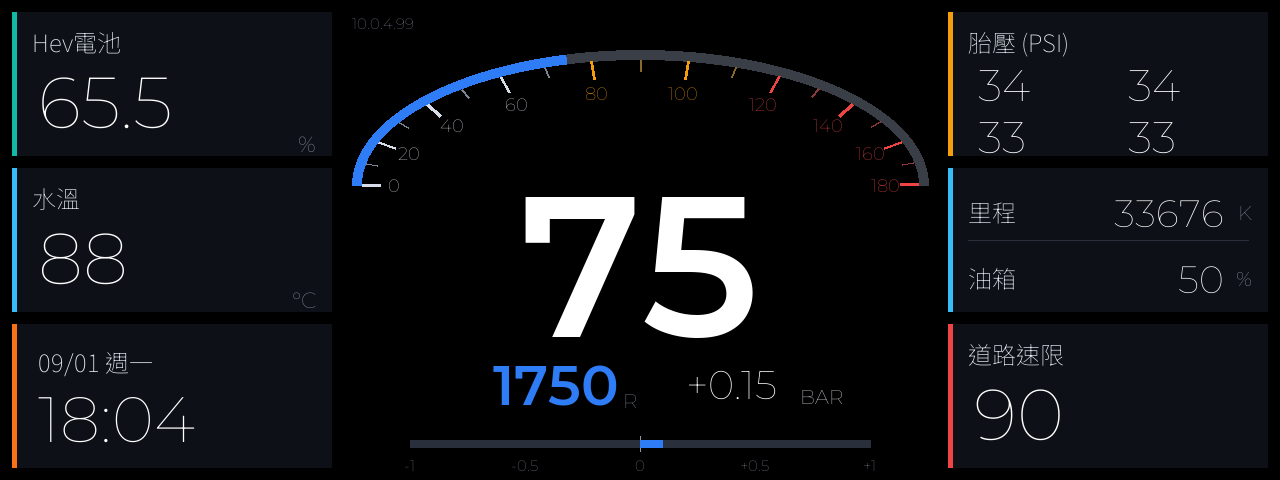
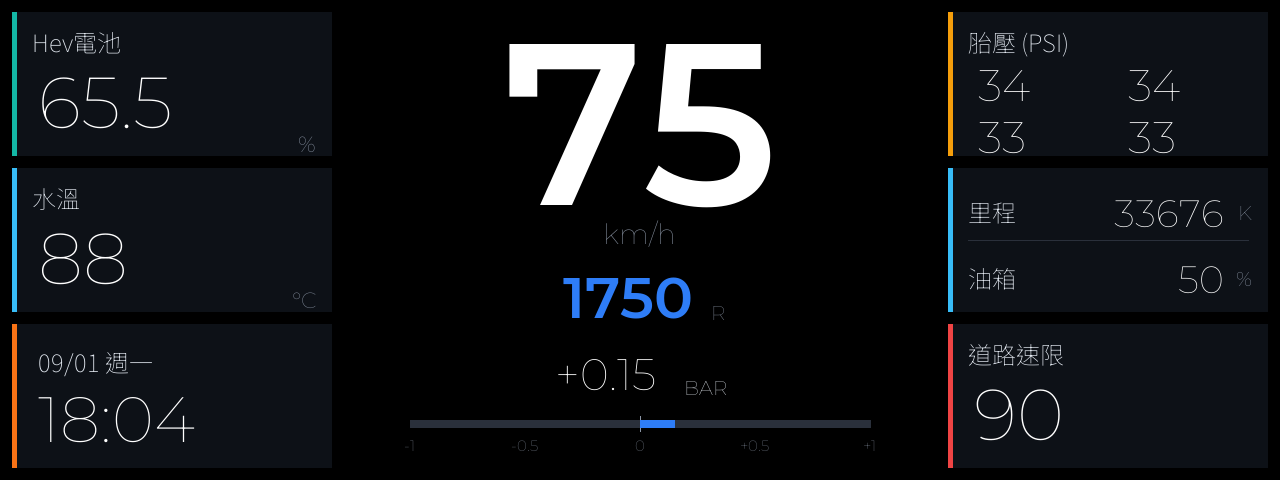
feat: DWIN 版面改為中央垂直堆疊，移除弧形錶盤
圓形錶盤與半橢圓拱形都試過，兩種都與兩側方正的卡片不協調：圓形被
480 的高度卡死且左右留大片黑邊；拱形的弧線語彙與卡片衝突，時速數字
放拱內會頂到刻度、放拱外又擠壓下方元素。

改為單純的垂直堆疊（時速 → 轉速 → 增壓），並加回 km/h 單位。
移除弧線與刻度後時速數字可放到 230px（圓形版 120px、拱形版 200px），
版面語彙也與兩側卡片一致。

代價是失去「目前速度佔上限多少」的視覺指示，只剩數字。README 已記錄
此取捨與可能的補救方式（改用水平進度條）。

產生器一併重寫：先前是連續補丁式修改已顯零亂，改為一次寫清楚，
版面常數集中於檔案上方，供將來產生 14.BIN 時共用同一組座標。

diff --git a/esp32_display/dwin_dashboard/tools/gen_background.py b/esp32_display/dwin_dashboard/tools/gen_background.py
@@ -2,16 +2,17 @@
 """
 DWIN DMG12480C068 (1280x480) 儀表背景圖產生器。
 
-DGUS 的背景圖是靜態的：所有「不會變的東西」都畫進這張圖，
-只有數值由 MCU 透過 UART 寫入 VP 後由螢幕疊上去。
+DGUS 的畫面分兩層：
+  背景圖（靜態）— 卡片框、色條、中文標籤、單位。打包成 .ICL 下載到螢幕。
+  變數控制項（動態）— 數值由 MCU 寫 VP，螢幕自己疊上去，定義在 14.BIN。
 
-因此本檔輸出兩張圖：
-  background.png  — 只有靜態元素，這張才是要轉成 .ICL 下載到螢幕的
-  preview.png     — 背景加上範例數值，用來評估版面（不會下載到螢幕）
+因此輸出兩張圖：
+  background.png  只有靜態元素，這張才是要轉 ICL 的
+  preview.png     背景加上範例數值，僅供評估版面
 
-用程式產生而非手拉，是為了讓美術素材也能進版控、能 diff。
+用程式產生而非手拉，是為了讓美術素材也能進版控、能 diff、能重現。
 """
-import os, math, sys
+import os, sys
 from PIL import Image, ImageDraw, ImageFont
 
 W, H = 1280, 480
@@ -19,46 +20,39 @@ OUT = os.path.join(os.path.dirname(__file__), "..", "assets")
 FONTS = sys.argv[1] if len(sys.argv) > 1 else "fonts"
 
 # ── 配色（沿用 LVGL 版）────────────────────────────────────────────────
-BG        = (0x00, 0x00, 0x00)
-CARD      = (0x0D, 0x11, 0x17)
-TEXT      = (0xFF, 0xFF, 0xFF)
-LABEL     = (0xE2, 0xE8, 0xF0)
-UNIT      = (0x8B, 0x95, 0xA5)
-TRACK     = (0x3A, 0x3F, 0x47)
-BLUE      = (0x2E, 0x7D, 0xF7)
-TEAL      = (0x14, 0xB8, 0xA6)
-CYAN      = (0x38, 0xBD, 0xF8)
-ORANGE    = (0xF5, 0x9E, 0x0B)
-RED       = (0xEF, 0x44, 0x44)
-AMBER     = (0xF9, 0x73, 0x16)
-ALERT     = (0xFF, 0x2D, 0x2D)
-DIVIDER   = (0x2A, 0x30, 0x3B)
+BG      = (0x00, 0x00, 0x00)
+CARD    = (0x0D, 0x11, 0x17)
+TEXT    = (0xFF, 0xFF, 0xFF)
+LABEL   = (0xE2, 0xE8, 0xF0)
+UNIT    = (0x8B, 0x95, 0xA5)
+BLUE    = (0x2E, 0x7D, 0xF7)
+TEAL    = (0x14, 0xB8, 0xA6)
+CYAN    = (0x38, 0xBD, 0xF8)
+ORANGE  = (0xF5, 0x9E, 0x0B)
+RED     = (0xEF, 0x44, 0x44)
+AMBER   = (0xF9, 0x73, 0x16)
+DIVIDER = (0x2A, 0x30, 0x3B)
+BAR_BG  = (0x2A, 0x30, 0x3B)
 
-# ── 版面 ────────────────────────────────────────────────────────────────
+# ── 左右卡片欄 ─────────────────────────────────────────────────────────
 PAD      = 12
 COL_W    = 320
 LEFT_X   = PAD
-RIGHT_X  = W - PAD - COL_W          # 978
+RIGHT_X  = W - PAD - COL_W
 ROW_H    = 144
 ROW_GAP  = 12
 ROW_Y    = [PAD, PAD + ROW_H + ROW_GAP, PAD + 2 * (ROW_H + ROW_GAP)]
 ACCENT_W = 5
 
-# 時速拱：上半橢圓（180°~360°）。橢圓比正圓更貼合 8:3 的長條螢幕，
-# 而且拱下方整塊空間可以讓給時速大字。
-GAUGE_CX, GAUGE_CY = 640, 185       # 橢圓中心（也是兩端點的高度）
-GAUGE_A, GAUGE_B   = 288, 135       # 水平/垂直半軸
-ARC_W              = 10             # 軌道線寬
-TICK_LEN_MAJOR     = 18
-TICK_LEN_MINOR     = 11
-LABEL_INSET        = 42             # 刻度數字距離軌道的內縮量
-
-# 轉速與增壓數值並排成一行，省下一整行的垂直空間給時速大字
-RPM_CX, TURBO_CX, ROW2_Y = 556, 764, 385
-TURBO_BAR_Y, TURBO_BAR_W = 440, 460
-
-SPEED_MAX = 180
-ROT, SPAN = 180, 180                # PIL 角度：180=左端、270=正上、360=右端
+# ── 中央區：時速 / 轉速 / 增壓 由上而下垂直排列 ────────────────────────
+CX            = W // 2
+SPEED_CY      = 122      # 時速數字中心
+SPEED_UNIT_Y  = 216      # km/h
+RPM_CY        = 297
+TURBO_CY      = 374
+TURBO_BAR_Y   = 420
+TURBO_BAR_W   = 460
+TURBO_BAR_X   = CX - TURBO_BAR_W // 2
 
 def f(name, size):
     return ImageFont.truetype(os.path.join(FONTS, name), size)
@@ -74,16 +68,9 @@ def card(d, x, y, w, h, accent):
 def text(d, xy, s, font, fill, anchor="la"):
     d.text(xy, s, font=font, fill=fill, anchor=anchor)
 
-def ellipse_pt(deg, a, b):
-    """橢圓參數式取點。a/b 縮小即可得到往內縮的同心橢圓。"""
-    t = math.radians(deg)
-    return GAUGE_CX + a * math.cos(t), GAUGE_CY + b * math.sin(t)
-
-def arc_box(a, b):
-    return [GAUGE_CX - a, GAUGE_CY - b, GAUGE_CX + a, GAUGE_CY + b]
-
+# ─────────────────────────────────────────────────────────────────────────
 def draw_static(d):
-    # ── 左欄 ──────────────────────────────────────────────────────────
+    # 左欄
     card(d, LEFT_X, ROW_Y[0], COL_W, ROW_H, TEAL)
     text(d, (LEFT_X + 20, ROW_Y[0] + 12), "Hev電池", F_TC(24), LABEL)
     text(d, (LEFT_X + COL_W - 16, ROW_Y[0] + ROW_H - 26), "%", F_NUM(22), UNIT, "ra")
@@ -94,7 +81,7 @@ def draw_static(d):
 
     card(d, LEFT_X, ROW_Y[2], COL_W, ROW_H, AMBER)
 
-    # ── 右欄 ──────────────────────────────────────────────────────────
+    # 右欄
     card(d, RIGHT_X, ROW_Y[0], COL_W, ROW_H, ORANGE)
     text(d, (RIGHT_X + 20, ROW_Y[0] + 12), "胎壓 (PSI)", F_TC(24), LABEL)
 
@@ -108,37 +95,26 @@ def draw_static(d):
     card(d, RIGHT_X, ROW_Y[2], COL_W, ROW_H, RED)
     text(d, (RIGHT_X + 20, ROW_Y[2] + 12), "道路速限", F_TC(24), LABEL)
 
-    # ── 時速拱：灰色軌道 + 刻度 ────────────────────────────────────────
-    d.arc(arc_box(GAUGE_A, GAUGE_B), ROT, ROT + SPAN, fill=TRACK, width=ARC_W)
+    # 中央區的固定文字
+    text(d, (CX, SPEED_UNIT_Y), "km/h", F_NUM(28), UNIT, "ma")
 
-    for v in range(0, SPEED_MAX + 1, 10):
-        ang = ROT + SPAN * v / SPEED_MAX
-        major = (v % 20 == 0)
-        # 依速域上色：0-70 白、80-110 琥珀、120+ 紅
-        col = (0xD8, 0xDE, 0xE9) if v <= 70 else (ORANGE if v <= 110 else RED)
-        dim = (0x7A, 0x84, 0x94) if v <= 70 else ((0x8A, 0x6A, 0x2A) if v <= 110 else (0x8A, 0x3A, 0x3A))
-        ln = TICK_LEN_MAJOR if major else TICK_LEN_MINOR
-        x0, y0 = ellipse_pt(ang, GAUGE_A - ARC_W, GAUGE_B - ARC_W)
-        x1, y1 = ellipse_pt(ang, GAUGE_A - ARC_W - ln, GAUGE_B - ARC_W - ln)
-        d.line([x0, y0, x1, y1], fill=(col if major else dim), width=3 if major else 2)
-        if major:
-            lx, ly = ellipse_pt(ang, GAUGE_A - LABEL_INSET, GAUGE_B - LABEL_INSET)
-            text(d, (lx, ly), str(v), F_NUM(18), col, "mm")
-
-    # ── 增壓：軌道與刻度 ─────────────────────────────────────────────
-    bx = GAUGE_CX - TURBO_BAR_W // 2
-    d.rectangle([bx, TURBO_BAR_Y, bx + TURBO_BAR_W, TURBO_BAR_Y + 7], fill=(0x2A, 0x30, 0x3B))
-    d.line([GAUGE_CX, TURBO_BAR_Y - 4, GAUGE_CX, TURBO_BAR_Y + 11], fill=UNIT)
+    # 增壓：軌道、中線、刻度
+    d.rectangle([TURBO_BAR_X, TURBO_BAR_Y,
+                 TURBO_BAR_X + TURBO_BAR_W, TURBO_BAR_Y + 7], fill=BAR_BG)
+    d.line([CX, TURBO_BAR_Y - 4, CX, TURBO_BAR_Y + 11], fill=UNIT)
     for i, lbl in enumerate(["-1", "-0.5", "0", "+0.5", "+1"]):
-        text(d, (bx + i * TURBO_BAR_W // 4, TURBO_BAR_Y + 16), lbl, F_NUM(15), UNIT, "ma")
+        text(d, (TURBO_BAR_X + i * TURBO_BAR_W // 4, TURBO_BAR_Y + 16),
+             lbl, F_NUM(15), UNIT, "ma")
 
 def draw_dynamic(d):
-    """MCU 透過 VP 寫入、由螢幕疊在背景上的部分。僅供預覽。"""
+    """MCU 透過 VP 寫入、由螢幕疊上去的部分。僅供預覽。"""
+    # 左欄
     text(d, (LEFT_X + 26, ROW_Y[0] + 46), "65.5", F_NUM(72), TEXT)
     text(d, (LEFT_X + 26, ROW_Y[1] + 46), "88",   F_NUM(72), TEXT)
     text(d, (LEFT_X + 26, ROW_Y[2] + 20), "09/01 週一", F_TC(24), LABEL)
     text(d, (LEFT_X + 26, ROW_Y[2] + 56), "18:04", F_NUM(64), TEXT)
 
+    # 右欄
     for i, v in enumerate(["34", "34", "33", "33"]):
         text(d, (RIGHT_X + 30 + (i % 2) * 150, ROW_Y[0] + 46 + (i // 2) * 52),
              v, F_NUM(44), TEXT)
@@ -146,24 +122,15 @@ def draw_dynamic(d):
     text(d, (RIGHT_X + COL_W - 44, ROW_Y[1] + 88), "50",    F_NUM(38), TEXT, "ra")
     text(d, (RIGHT_X + 26, ROW_Y[2] + 46), "90", F_NUM(72), TEXT)
 
-    # 時速進度弧（0 -> 75）
-    d.arc(arc_box(GAUGE_A, GAUGE_B), ROT, ROT + SPAN * 75 / SPEED_MAX,
-          fill=BLUE, width=ARC_W)
+    # 中央：時速 → 轉速 → 增壓
+    text(d, (CX, SPEED_CY), "75", F_NUM_SB(230), TEXT, "mm")
 
-    # 時速大字放在拱「下方」而非拱內——拱內會頂到刻度，下方才放得大
-    text(d, (GAUGE_CX, 265), "75", F_NUM_SB(200), TEXT, "mm")
+    text(d, (CX - 12, RPM_CY), "1750", F_NUM_SB(58), BLUE, "mm")
+    text(d, (CX + 78, RPM_CY + 16), "R", F_NUM(20), UNIT, "mm")
 
-    text(d, (RPM_CX, ROW2_Y), "1750", F_NUM_SB(56), BLUE, "mm")
-    text(d, (RPM_CX + 74, ROW2_Y + 16), "R", F_NUM(20), UNIT, "mm")
-    text(d, (TURBO_CX - 32, ROW2_Y), "+0.15", F_NUM(40), TEXT, "mm")
-    text(d, (TURBO_CX + 58, ROW2_Y + 12), "BAR", F_NUM(20), LABEL, "mm")
-
-    bx = GAUGE_CX - TURBO_BAR_W // 2
-    d.rectangle([GAUGE_CX, TURBO_BAR_Y, GAUGE_CX + 22, TURBO_BAR_Y + 7], fill=BLUE)
-
-    # 連線資訊放中央區左上角的空白處。實作時應該移到 DGUS 的設定分頁，
-    # 主畫面只留一個連線指示點即可。
-    text(d, (GAUGE_CX - GAUGE_A, 14), "10.0.4.99", F_NUM(15), UNIT, "la")
+    text(d, (CX - 34, TURBO_CY), "+0.15", F_NUM(44), TEXT, "mm")
+    text(d, (CX + 44, TURBO_CY + 14), "BAR", F_NUM(20), LABEL, "lm")
+    d.rectangle([CX, TURBO_BAR_Y, CX + 34, TURBO_BAR_Y + 7], fill=BLUE)
 
 os.makedirs(OUT, exist_ok=True)
 bg = Image.new("RGB", (W, H), BG)

diff --git a/esp32_display/dwin_dashboard/README.md b/esp32_display/dwin_dashboard/README.md
@@ -36,26 +36,28 @@ python3 tools/gen_background.py <字型資料夾>
 分界線的意義：**移動數值位置、改顏色、改門檻只動 `14.BIN`，純 Mac 作業**；
 只有改背景美術時才需要跑一次 ICL 轉換。
 
-## 時速錶為什麼是半橢圓拱形
+## 中央區為什麼是垂直堆疊
 
-圓形錶盤放在 8:3 的長條螢幕上，上下會被高度卡死、左右又留一大片黑邊。
-改成**上半橢圓的拱形**後：
+先試過圓形錶盤與半橢圓拱形，兩種都不理想：
 
-- 拱可以橫向拉寬（半軸 288×135），貼合長條比例
-- 拱下方整片空間讓給時速數字，字級從 120px 放大到 **200px**
-- 刻度與依速域上色（0-70 白 / 80-110 琥珀 / 120+ 紅）的規則不變
+- **圓形**：在 8:3 的長條螢幕上被高度卡死，左右各留約 128px 黑邊
+- **半橢圓拱形**：橫向比例對了，但弧線與兩側方正的卡片格格不入，
+  而且時速數字放拱內會頂到刻度、放拱外又擠壓下方元素
 
-時速數字刻意放在**拱的下方**而不是拱內部 —— 放在拱內會頂到刻度數字，
-能用的字級反而更小。
+最後回到**單純的垂直堆疊**：時速 → 轉速 → 增壓，由上而下。
+沒有弧線與刻度之後，時速數字可以放到 **230px**（圓形版只有 120px），
+版面語彙也跟兩側的卡片一致。
+
+代價是**沒有了「目前速度佔上限多少」的視覺指示**——只剩數字。
+如果之後想補回來，可以在時速數字下方加一條細的水平進度條，
+比弧線更貼合長條螢幕。
 
 ## 版面草圖的已知取捨
 
 - 高度只有 480（現行 1024×600 是 600），垂直空間相當吃緊
-- **拿掉了 `km/h`**：它夾在轉速與增壓那行之間會打架，而且原始的
-  `rec.gif` 設計本來就沒有標這個單位——大數字不需要
-- **轉速與增壓數值並排成一行**，才省得出時速大字的空間
-- IP 暫時放在中央區左上角。DGUS 原生支援分頁，實作時應該移到設定頁，
-  主畫面只留一個連線指示點
+- 中央內容 y 41..451，左右卡片 y 12..468，中央比卡片略內縮
+- 連線資訊（IP）已從主畫面移除。DGUS 原生支援分頁，那類東西應該
+  放設定頁，主畫面最多留一個連線指示點
 
 ## 尺寸與座標
 
